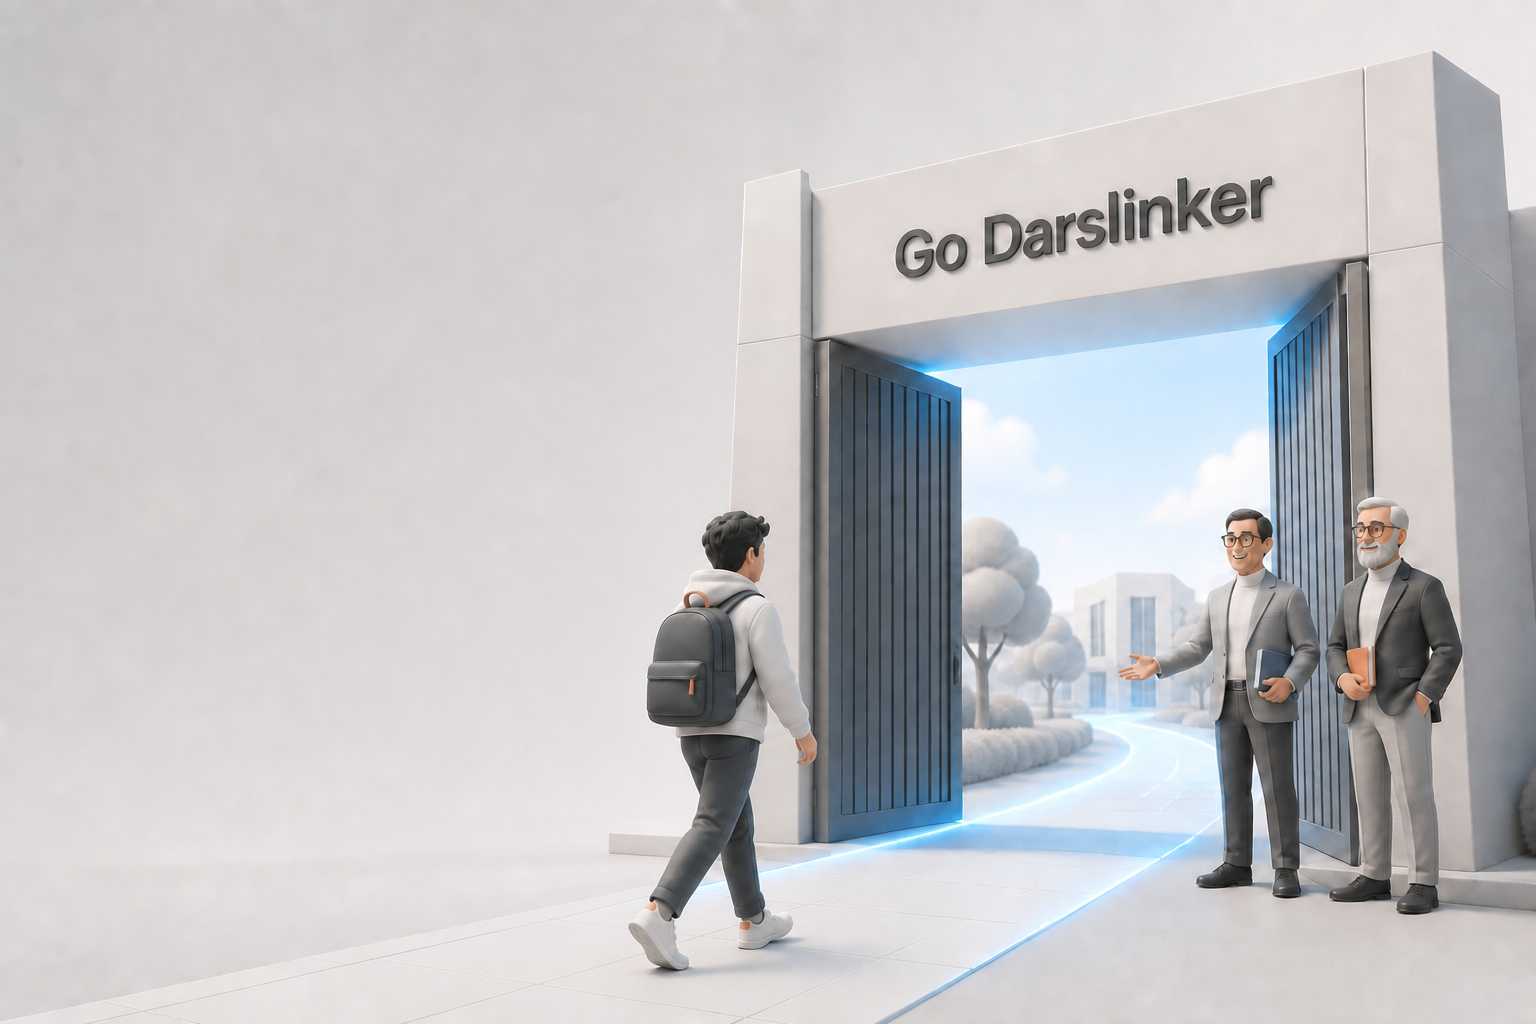
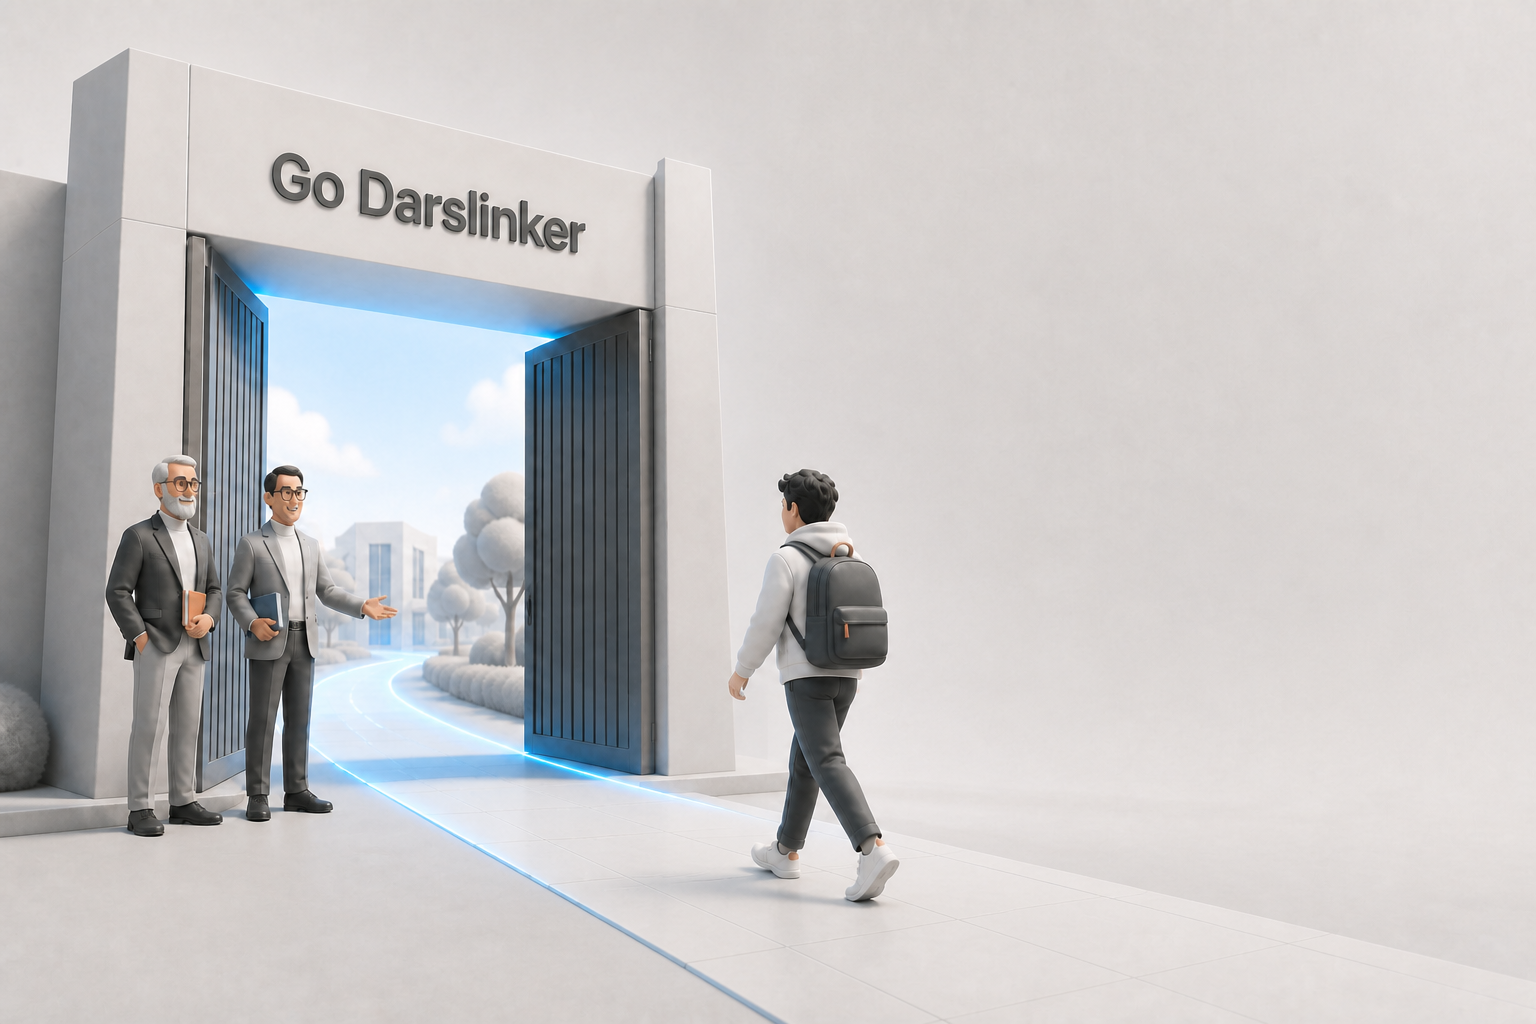
fix(hero): revers qilingan rasmni ishlatish + desktop matn joylashuvi
Codex'ning /private/tmp/GoDarslinker-deploy klonida commit qilinmay
qolib ketgan revers qilingan hero rasmini (mazmun chapda, bo'sh joy
o'ngda) topib, asosiy rasm sifatida qo'ydim. Desktop overlay matni
endi shu bo'sh o'ng qismga to'g'ri keladi (ml-auto), va rasm bilan
matn orasida yumshoq oq gradient scrim qo'shildi — matn har doim
o'qiladigan bo'lishi uchun.

diff --git a/src/app/go-darslinker-home.tsx b/src/app/go-darslinker-home.tsx
@@ -66,9 +66,10 @@ function Hero({ onStart }: { onStart: () => void }) {
         <div className="absolute inset-0">
           <Image src="/hero/go-darslinker-gateway.png" alt="Go Darslinker ilm darvozasi tomon ketayotgan talaba va uni kutib olayotgan professorlar" fill priority sizes="(max-width: 1024px) 100vw, 1280px" className="object-cover object-center" />
         </div>
-        <div className="relative z-10 max-w-[560px] px-10 pb-12 pt-12 lg:px-14 lg:pt-16" style={{ fontFamily }}>
+        <div className="absolute inset-y-0 right-0 z-[5] w-[70%] bg-gradient-to-l from-white from-40% via-white/85 to-transparent lg:w-[58%]" />
+        <div className="relative z-10 ml-auto max-w-[480px] px-8 pb-12 pt-12 lg:max-w-[520px] lg:px-12 lg:pt-16" style={{ fontFamily }}>
           <p className="text-[10px] font-bold uppercase tracking-[.22em] text-[#3467eb]">Beginner language campus</p>
-          <h1 className="mt-4 text-[clamp(3rem,7.1vw,7rem)] font-bold leading-[.89] tracking-[-.06em]">Gapirishni<br /><span className="text-[#343b46]">bugun</span> boshlang.</h1>
+          <h1 className="mt-4 text-[clamp(2.4rem,4.6vw,4.4rem)] font-bold leading-[.92] tracking-[-.04em]">Gapirishni<br /><span className="text-[#343b46]">bugun</span> boshlang.</h1>
           <p className="mt-5 max-w-md text-lg font-normal leading-8 tracking-[-.01em] text-[#686d76]">Ilm darvozasidan birinchi qadamni qo‘ying. Qisqa darslar bilan yangi tilda suhbatni boshlang.</p>
           <button onClick={onStart} className="mt-7 flex items-center gap-3 rounded-2xl border-2 border-[#171a20] bg-[#3467eb] px-7 py-4 text-sm font-bold text-white shadow-[4px_4px_0_#171a20] transition hover:-translate-y-0.5">Bepul boshlash <ArrowRight className="size-6" /></button>
           <div className="mt-8 flex flex-wrap gap-4 text-xs font-bold">
